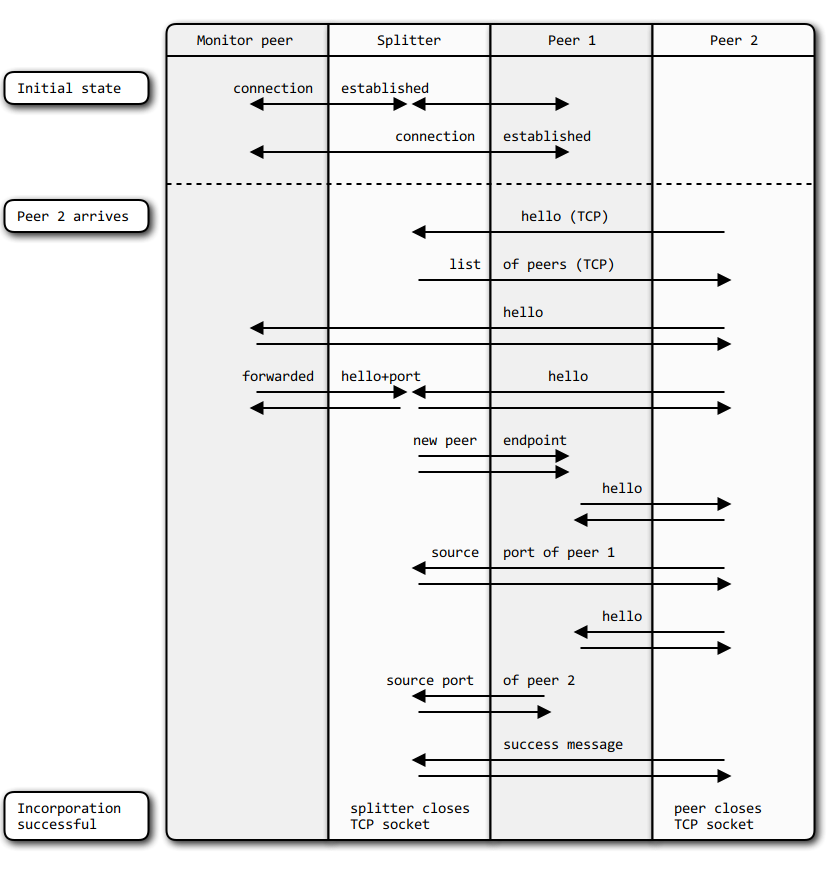
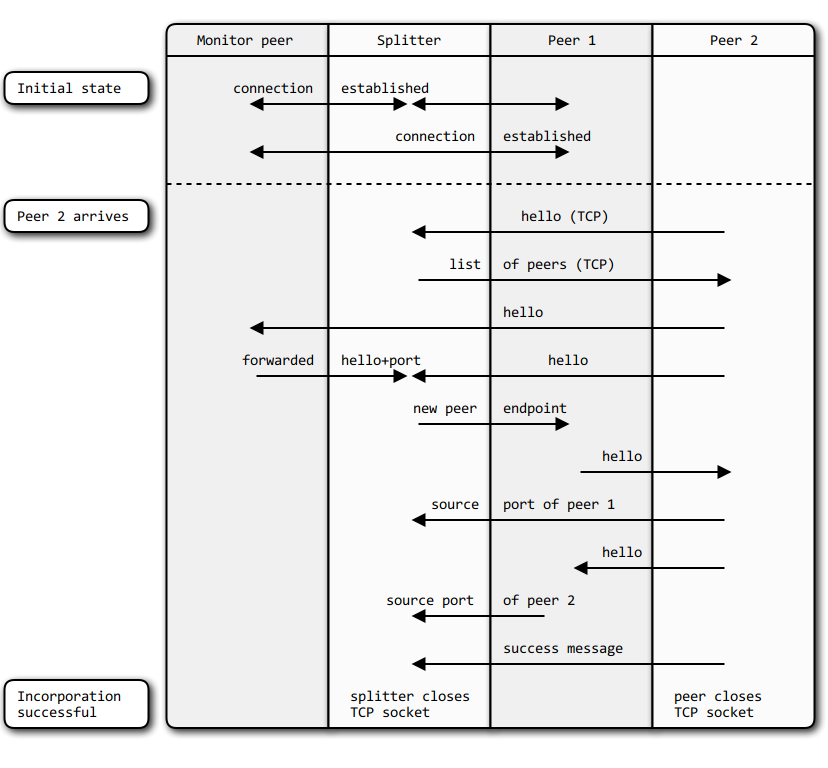
Clarified paragraph about message sending.

diff --git a/doc/NAT_traversal.md b/doc/NAT_traversal.md
@@ -264,17 +264,16 @@ video broadcasting. As UDP is per design an unreliable protocol and packets may
 drop or arrive several times in any order, important data (needed for
 establishing connections between peers) is sent continuously in regular
 intervals. The receiver then sends exactly the same message as an acknowledge
-back to the sender, once for each received message.
+back to the sender:
+
+![acknowledge message](images/acknowledge_message.png)
 
 The splitter has the most important role in P2PSP streaming. To reduce load on
 the splitter, it does not automatically resend messages continuously in a thread
 but only replies to peers if a message is received. To ensure that a message
-reaches the peer, it is sent several (currently 3) times at once.
+reaches the peer, it is sent several (currently 3) times at once:
 
-In the following diagrams, this is symbolized by a second arrow in the opposing
-direction below or two arrows in the same direction, respectively:
-
-![acknowledge message and message by splitter](images/acknowledge_message.png)
+![message from splitter](images/message_from_splitter.png)
 
 The NAT traversal classes are developed in such a way that repeatedly arriving
 messages do not affect the communication between peers.
